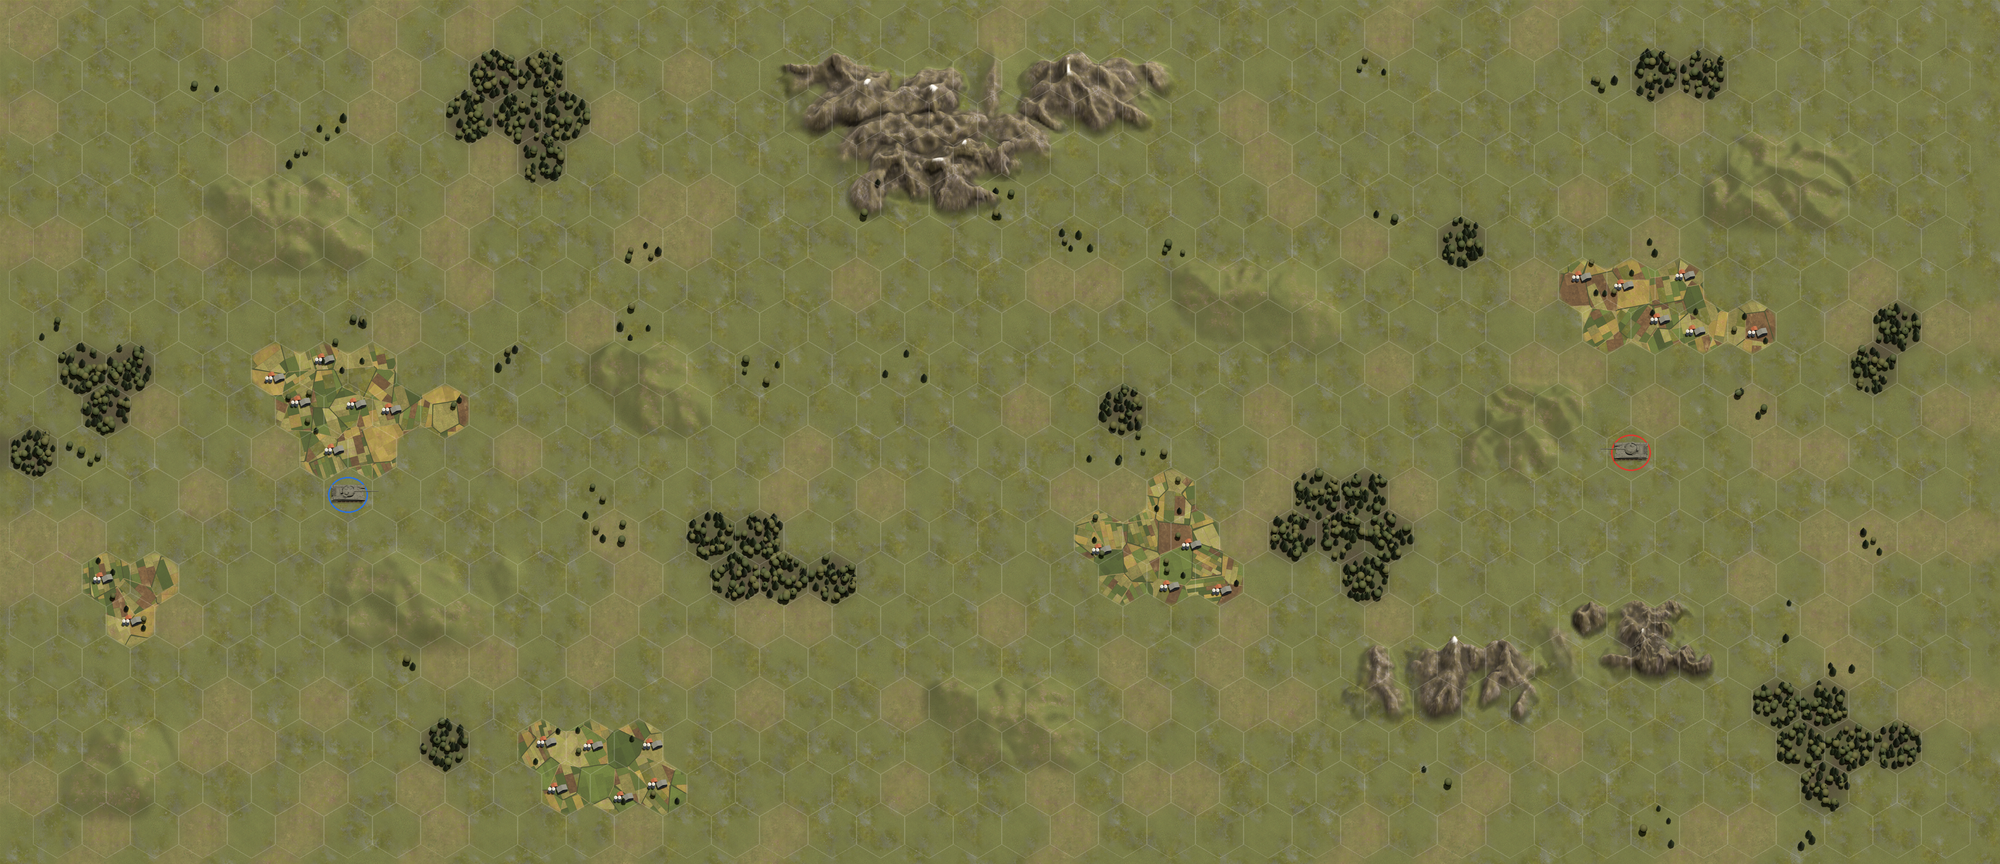
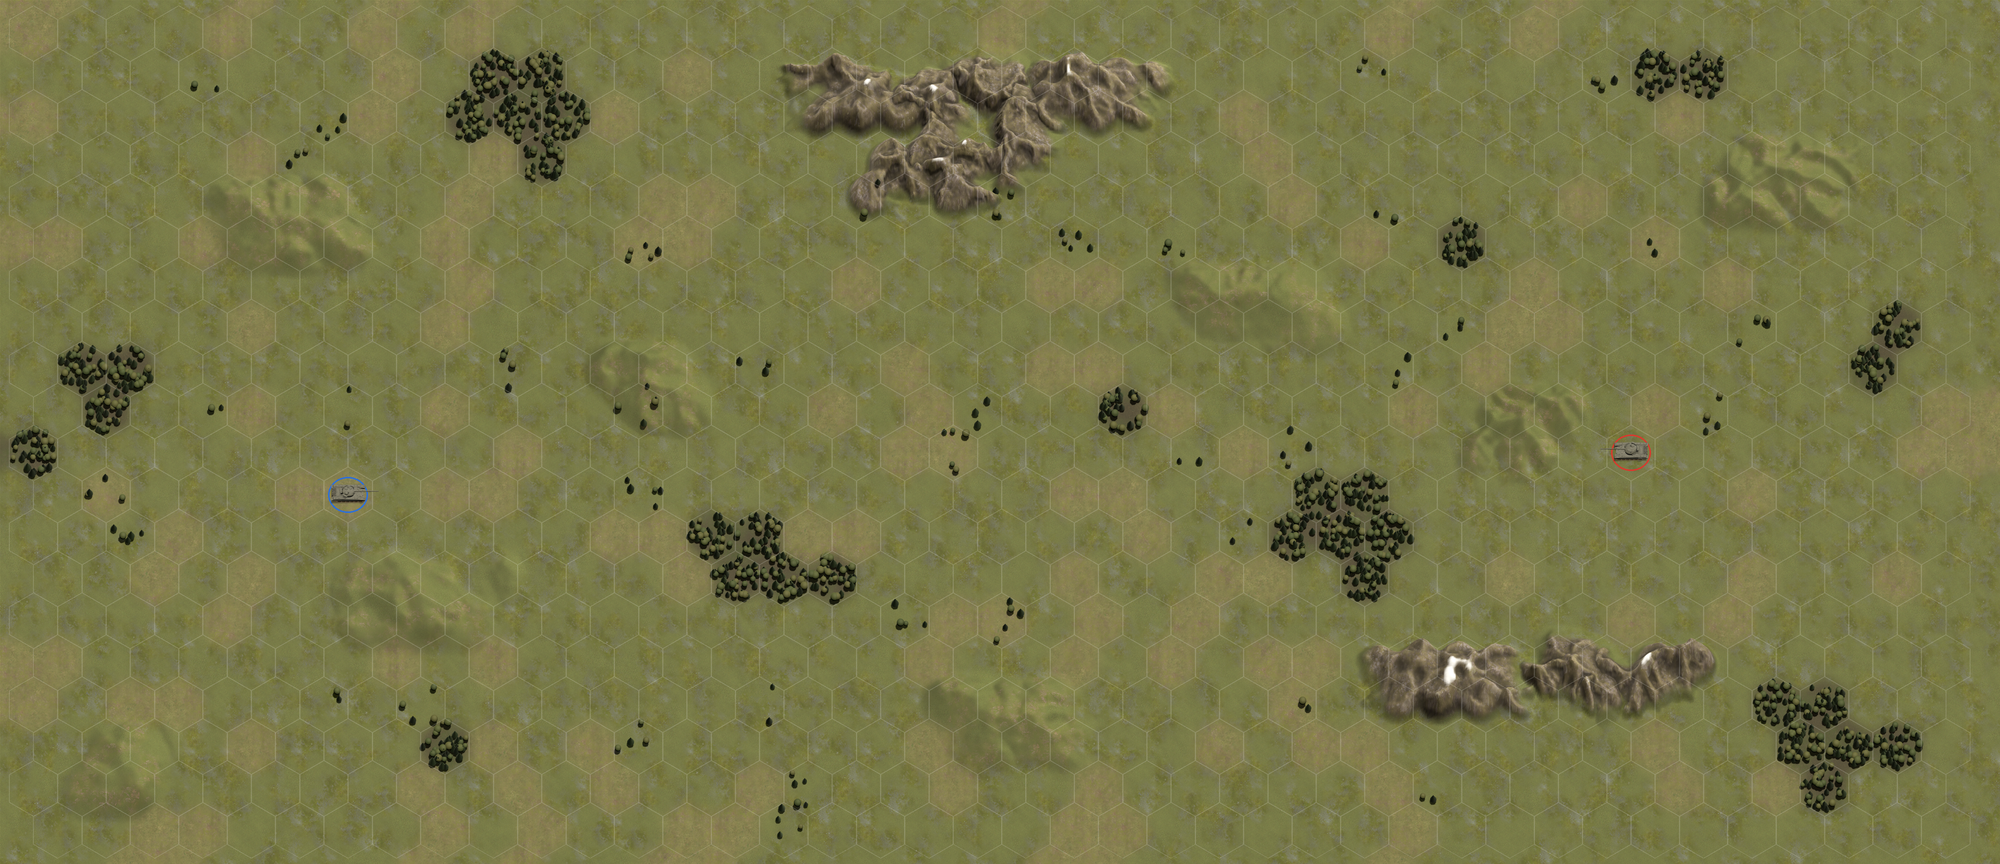
Test map 40x20: no fields/farms, matching SE ridge presets, mountains joined by real ridges
Claude-Session: https://claude.ai/code/session_01DGzcrkN7G6Q8ozASAUm8BS

diff --git a/tools/references/mountains_lib.py b/tools/references/mountains_lib.py
@@ -104,26 +104,76 @@ def massif(g, hexes, area, used, hmax=15.0, km_per_hex=2.5, scan=10, fade_r=0.8,
     return hv, {"area": area, "angle": ang, "score": round(float(sc)), "dem_xy": [round(ux), round(uy)]}
 
 
-def stitch(g, parts):
-    """parts: [(heights, hex centres)]. Grow wide rocky saddles where groups touch."""
+def ridge_patch(g, a, b, height, area="alps", used=None, km_per_hex=3.0, width=2.0):
+    """A real DEM ridge laid from a to b (the approved v2 ridge look)."""
+    mpp, rots = area_rots(area)
+    used = [] if used is None else used
+    Lf = np.linalg.norm(b - a) + R * 1.7
+    Wf = R * width
+    lw = int(km_per_hex * (Lf / (R * math.sqrt(3))) * 1000 / mpp)
+    ww = int(lw * Wf / Lf)
+    best = None
+    for ang, rot in rots.items():
+        n = rot.shape[0]
+        for cy in range(ww + n // 8, n - ww - n // 8, 12):
+            for cx in range(lw // 2 + n // 6, n - lw // 2 - n // 6, 12):
+                if any(abs(cx - ux) < lw and abs(cy - uy) < ww and ua == ang for ux, uy, ua in used):
+                    continue
+                win = rot[cy - ww // 2:cy + ww // 2, cx - lw // 2:cx + lw // 2]
+                q = max(ww // 4, 1)
+                mid = win[ww // 2 - q // 2:ww // 2 + q // 2].mean()
+                edge = 0.5 * (win[:q].mean() + win[-q:].mean())
+                prof = win[ww // 2 - q // 2:ww // 2 + q // 2].mean(axis=0)
+                score = (mid - edge) - 0.3 * np.std(np.diff(prof[::max(1, lw // 10)]))
+                if best is None or score > best[0]:
+                    best = (score, ang, cx, cy, win.copy())
+    sc, ang, cx, cy, win = best
+    used.append((cx, cy, ang))
+    d = (b - a) / np.linalg.norm(b - a)
+    nrm = np.array([-d[1], d[0]])
+    c = (a + b) / 2
+    s = ((g.X - c[0]) * d[0] + (g.Z - c[1]) * d[1]) / Lf + 0.5
+    t = ((g.X - c[0]) * nrm[0] + (g.Z - c[1]) * nrm[1]) / Wf + 0.5
+    inside = (s > 0) & (s < 1) & (t > 0) & (t < 1)
+    hv = ndimage.map_coordinates(win, [np.clip(t, 0, 1) * (win.shape[0] - 1), np.clip(s, 0, 1) * (win.shape[1] - 1)], order=3)
+    hv = np.clip(hv - np.percentile(win, 35), 0, None)
+    e = np.abs(2 * s - 1) ** 3 + np.abs(2 * t - 1) ** 1.6
+    fade = np.clip(1 - e, 0, 1)
+    fade = fade * fade * (3 - 2 * fade)
+    hv = np.where(inside, hv * fade, 0)
+    return hv * height / max(hv.max(), 1e-6)
+
+
+def stitch(g, parts, detail_scale=1.0, hmax=15.0):
+    """parts: [(heights, hex centres)]. Where two mountains touch they are joined by a
+    real Alpine ridge running from one to the other across their common border."""
     H = np.zeros((g.nz, g.nx))
     for h, P in parts:
         H = np.maximum(H, h)
-    k = int(R * 2.6 / STEP)
+    used = []
     for i in range(len(parts)):
         for j in range(i + 1, len(parts)):
             hi, Pi = parts[i]
             hj, Pj = parts[j]
-            if min(np.hypot(*(a - b)) for a in Pi for b in Pj) > R * math.sqrt(3) * 1.05:
+            dmin = min(np.hypot(*(a - b)) for a in Pi for b in Pj)
+            if dmin > R * math.sqrt(3) * 1.05:
                 continue
-            fi, fj = footprint_fade(g, Pi), footprint_fade(g, Pj)
-            si = ndimage.gaussian_filter(ndimage.maximum_filter(hi, size=k), k / 4)
-            sj = ndimage.gaussian_filter(ndimage.maximum_filter(hj, size=k), k / 4)
-            near = (np.clip(ndimage.gaussian_filter(fi, k / 3) * 4, 0, 1)
-                    * np.clip(ndimage.gaussian_filter(fj, k / 3) * 4, 0, 1))
-            rough = ndimage.gaussian_filter(np.random.default_rng(i * 7 + j).normal(size=H.shape), 6) * 8
-            saddle = (0.75 * np.minimum(si, sj) + (hi + hj) * 0.25) * near
-            H = np.maximum(H, saddle * (1 + 0.25 * rough))
+            # all border pairs; the ridge runs from the middle of one side to the other
+            pairs = [(a, b) for a in Pi for b in Pj if np.hypot(*(a - b)) <= dmin + 0.01]
+            a = np.mean([p[0] for p in pairs], axis=0)
+            b = np.mean([p[1] for p in pairs], axis=0)
+            dirv = (b - a) / np.linalg.norm(b - a)
+            a, b = a - dirv * R * 0.6, b + dirv * R * 0.6
+            span = len(pairs)
+            hgt = 0.9 * min(hi.max(), hj.max())
+            H = np.maximum(H, ridge_patch(g, a, b, hgt, used=used, width=2.3 + 0.9 * (span - 1)))
+            # close narrow grassy creases left between the two masses
+            fi = ndimage.gaussian_filter(footprint_fade(g, Pi), R * 0.35 / STEP)
+            fj = ndimage.gaussian_filter(footprint_fade(g, Pj), R * 0.35 / STEP)
+            between = np.clip(fi * 2.5, 0, 1) * np.clip(fj * 2.5, 0, 1)
+            k = int(R * 1.6 / STEP)
+            closed = ndimage.gaussian_filter(ndimage.grey_closing(H, size=(k, k)), 8)
+            H = np.maximum(H, closed * between * 0.92)
     return H
 
 

diff --git a/tools/references/make_game_layout.py b/tools/references/make_game_layout.py
@@ -5,7 +5,9 @@ import json
 import numpy as np
 COLS, ROWS = 40, 20
 T = [["G"] * COLS for _ in range(ROWS)]
-mountains = [(15, 1, 5), (20, 1, 4), (17, 3, 4), (27, 15, 5), (32, 14, 3)]
+mountains = [(15, 1, 5), (20, 1, 4), (17, 3, 4), (27, 15, 5), (32, 15, 3)]
+# north massif as approved; south-east ridge: both from the Mont Blanc area so they match
+MTN_PRESETS = ["m2x5_02", "m2x4_07", "m2x4_03", "m2x5_03", "m2x3_12"]
 hills = [(4, 4, 3), (6, 13, 4), (12, 8, 2), (24, 6, 3), (30, 9, 2), (35, 3, 3), (19, 16, 3), (1, 17, 2)]
 def mark(groups, ch):
     for c0, r0, n in groups:
@@ -30,7 +32,7 @@ fields = [(5, 8), (6, 8), (7, 8), (5, 9), (6, 9), (7, 9), (8, 9), (6, 10), (7, 1
           (10, 17), (11, 17), (12, 17), (11, 18), (12, 18), (13, 18),
           (1, 13), (2, 13), (2, 14)]
 put(forest, "F")
-put(fields, "A")
+
 rng = np.random.default_rng(3)
 for r in range(ROWS):
     for c in range(COLS):
@@ -38,11 +40,11 @@ for r in range(ROWS):
             T[r][c] = "P"
 units = [{"side": 0, "hex": [6, 11]}, {"side": 1, "hex": [33, 10]}]
 for u in units:
-    assert T[u["hex"][1]][u["hex"][0]] in "GPA"
+    assert T[u["hex"][1]][u["hex"][0]] in "GP"
 json.dump({"cols": COLS, "rows": ROWS, "terrain": ["".join(r) for r in T], "units": units},
           open("game_map/layout.json", "w"), indent=1)
 json.dump({"cols": COLS, "rows": ROWS, "footprint_scale": 0.85, "height_scale": 0.6,
-           "mountains": [{"at": [c, r], "n": n} for c, r, n in mountains]}, open("game_map/mountains.json", "w"))
+           "mountains": [{"at": [c, r], "n": n, "preset": p} for (c, r, n), p in zip(mountains, MTN_PRESETS)]}, open("game_map/mountains.json", "w"))
 json.dump({"cols": COLS, "rows": ROWS, "mountains": [{"at": [c, r], "n": n} for c, r, n in hills]},
           open("game_map/hills.json", "w"))
 print("\n".join("".join(r) for r in T))

diff --git a/tools/references/compose_mountains.py b/tools/references/compose_mountains.py
@@ -43,4 +43,4 @@ for m in cfg["mountains"]:
     H[y0:y1, x0:x1] = h[y0 - iz:y1 - iz, x0 - ix:x1 - ix]
     parts.append((H, P))
     print(pid, "at", c0, r0, "mirrored" if r0 & 1 else "")
-save_field(stitch(g, parts), g, OUT)
+save_field(stitch(g, parts, cfg.get("height_scale", 1.0)), g, OUT)
